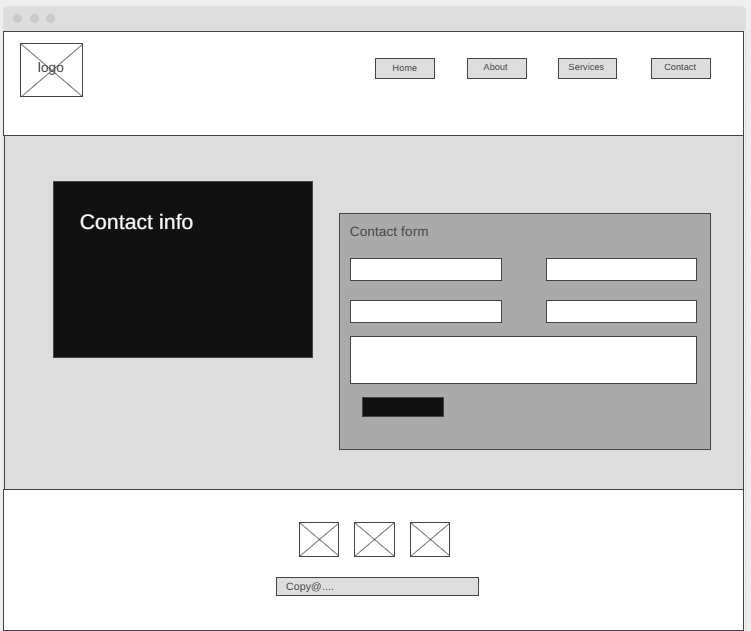
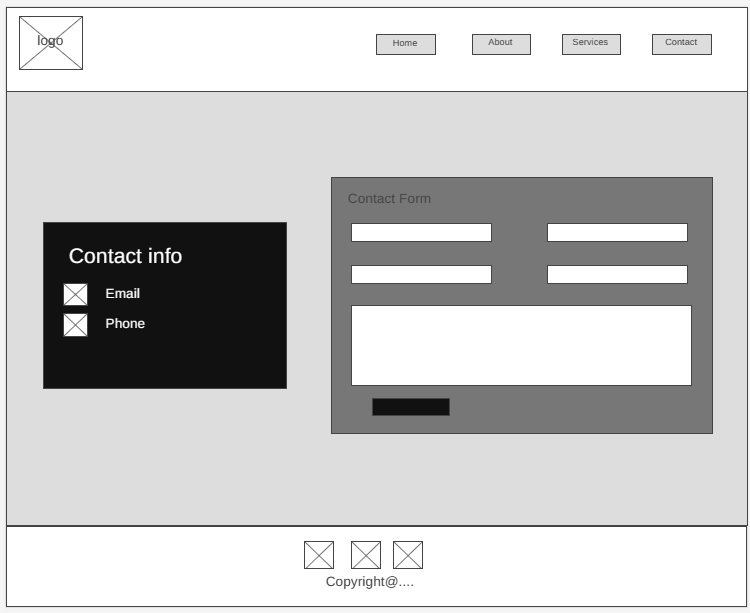
site plan update

diff --git a/atrebrabding/site-plan.html b/atrebrabding/site-plan.html
@@ -194,7 +194,7 @@
         Wireframes
       </h2>
       <p>
-        Created 5 different wireframes for my personal website.</p>
+        Created 4 different wireframes for my personal website. Home page plus two child pages with images, and an additional child page for contact information with icons.</p>
 
       <h3>Home</h3>
       <p>         
@@ -214,17 +214,11 @@
       </p>
       <img src="images/Child2.png" alt="child2 page wireframe">
 
-      <h3>Services</h3>
-      <p>         
-        The page includes referrences, a portfolio. The page height and text amount might change while building the website. 
-      </p>
-      <img src="images/Child3.png" alt="child3 page wireframe ">
-
       <h3>Contact</h3>
       <p>         
-        All other pages might have a link button to direct to the contact us child5 page. 
+        The child page 3 includes contact form and contact information with icons added not images. 
       </p>
-      <img src="images/Child4.png" alt="child4 page wireframe ">
+      <img src="images/child3.png" alt="child4 page wireframe ">
     </main>
   </body>
 
